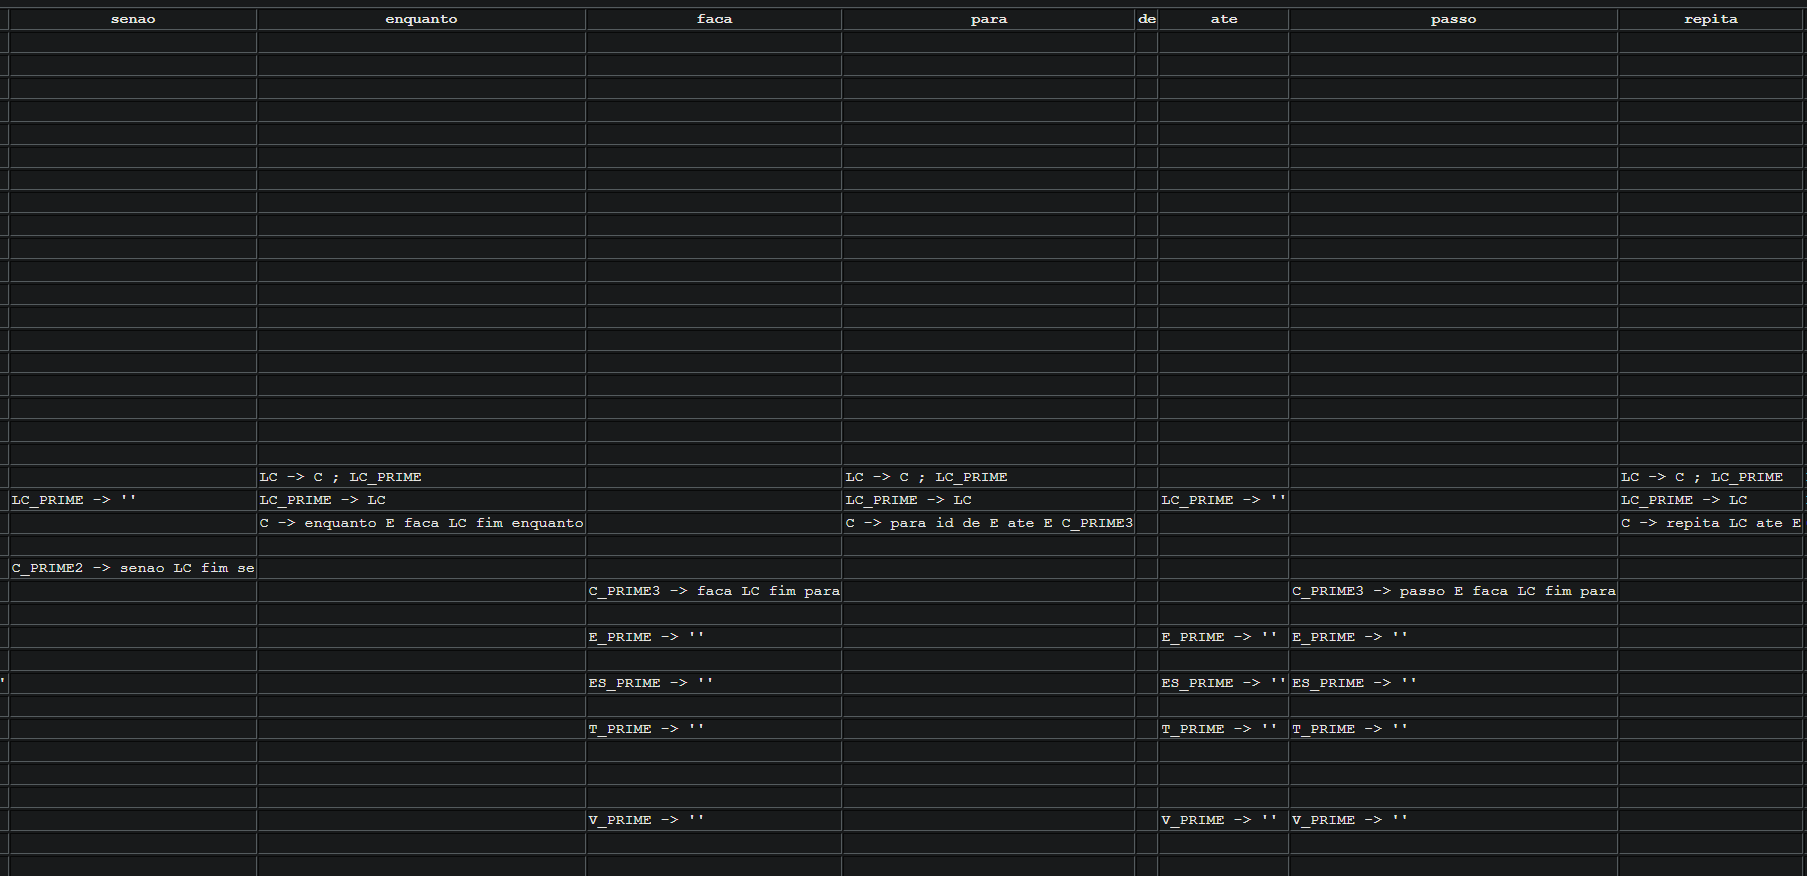
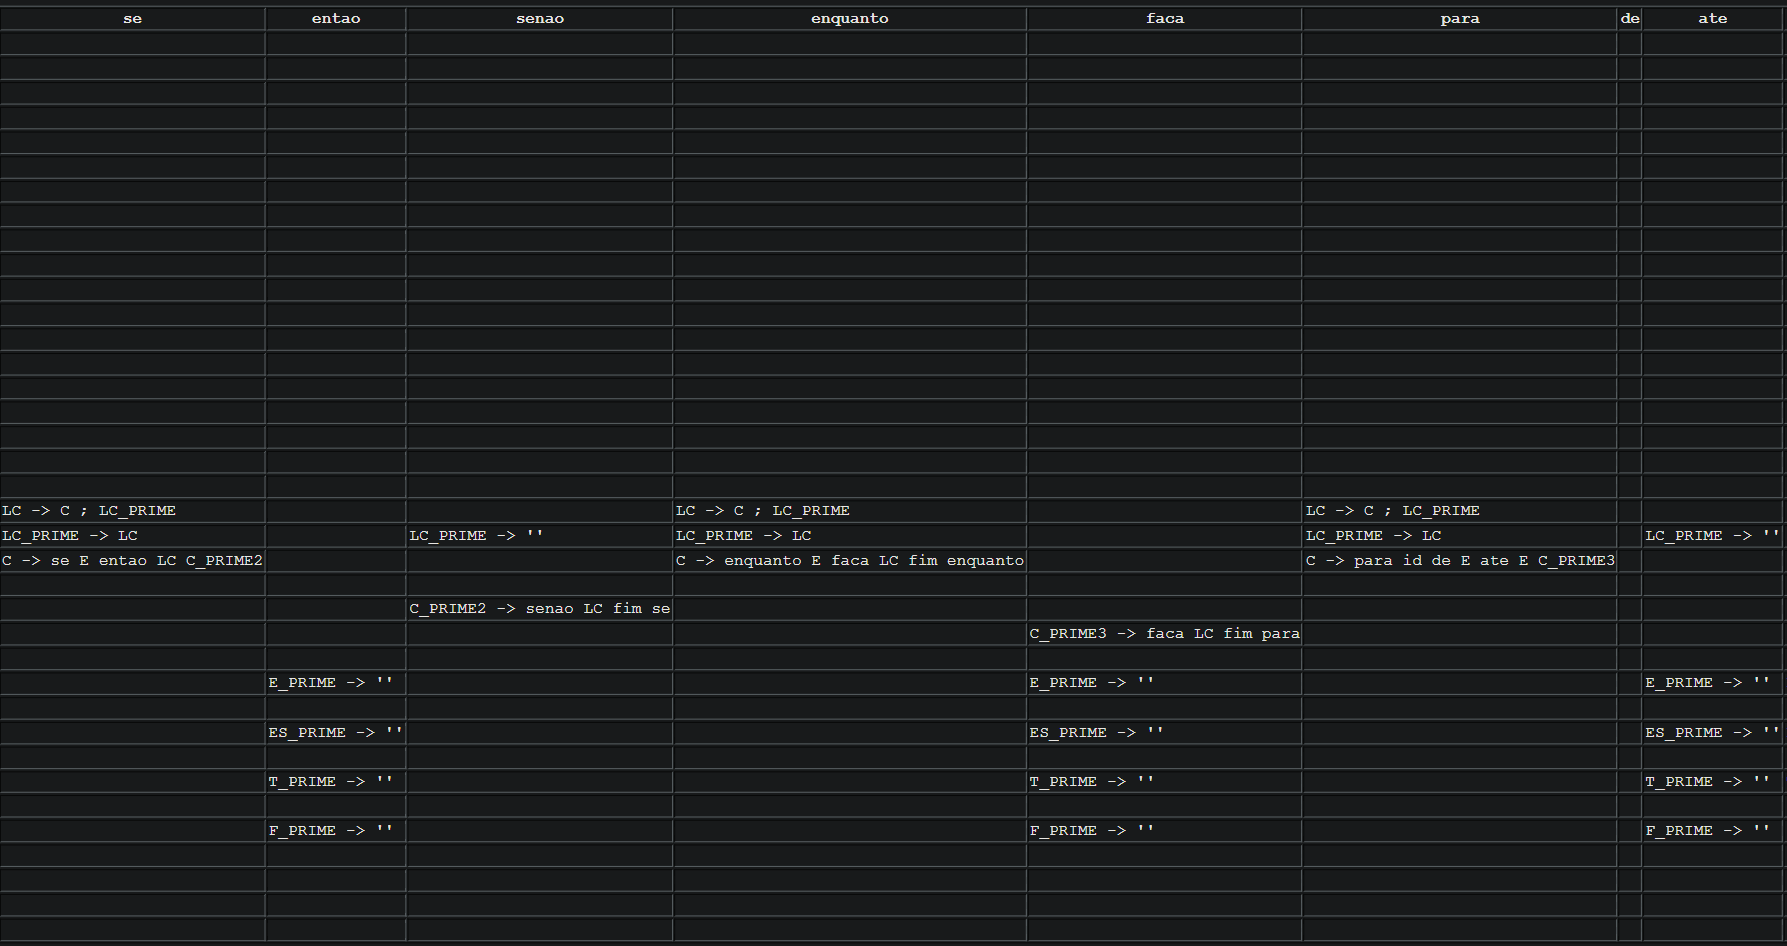
Algumas coisas funcionam agora, arrumar produções de E e ES

Changed region(s): [[0.0, 0.0, 1.0, 1.0]]

diff --git a/T1/PORTUGOL_SINTATICO.c b/T1/PORTUGOL_SINTATICO.c
@@ -21,7 +21,7 @@ void eatToken(void *cadeia, int tokenAnalisado, int *tokenGlobal, bool *textBefo
 
     } else {
         // if (getLine(cadeia) == -1 || getColumn(cadeia) == -1) return;
-        printf("ERRO DE SINTAXE. Linha: %d Coluna %d -> 'SOCORO'", getLine(cadeia), getColumn(cadeia));
+        printf("ERRO DE SINTAXE. Linha: %d Coluna %d -> '%d'", getLine(cadeia), getColumn(cadeia), *tokenGlobal);
         freeList(cadeia);
         free(input);
         exit(-2);
@@ -62,7 +62,7 @@ void Prog(void *cadeia, int *tokenGlobal, bool *textBefore, char *input) {
 
             BC(cadeia, tokenGlobal, textBefore, input);
 
-            eatToken(cadeia, FIM, tokenGlobal, textBefore, input);
+            eatToken(cadeia, PONTO, tokenGlobal, textBefore, input);
 
             break;
 
@@ -692,6 +692,15 @@ void C(void *cadeia, int *tokenGlobal, bool *textBefore, char *input) {
 
 void C_Prime1(void *cadeia, int *tokenGlobal, bool *textBefore, char *input) {
     switch (*tokenGlobal) {
+        case ID:
+            V(cadeia, tokenGlobal, textBefore, input);
+
+            eatToken(cadeia, ATRIBUICAO, tokenGlobal, textBefore, input);
+
+            E(cadeia, tokenGlobal, textBefore, input);
+
+            break;
+
         case PONTO_VIRGULA:
             break;
 
@@ -701,6 +710,19 @@ void C_Prime1(void *cadeia, int *tokenGlobal, bool *textBefore, char *input) {
             EI(cadeia, tokenGlobal, textBefore, input);
 
             eatToken(cadeia, FECHA_PARENTESES, tokenGlobal, textBefore, input);
+
+            break;
+
+        case ABRE_COLCHETE:
+            eatToken(cadeia, ABRE_COLCHETE, tokenGlobal, textBefore, input);
+
+            EI(cadeia, tokenGlobal, textBefore, input);
+
+            eatToken(cadeia, FECHA_COLCHETE, tokenGlobal, textBefore, input);
+
+            eatToken(cadeia, ATRIBUICAO, tokenGlobal, textBefore, input);
+
+            E(cadeia, tokenGlobal, textBefore, input);
 
             break;
 
@@ -1127,9 +1149,27 @@ void F(void *cadeia, int *tokenGlobal, bool *textBefore, char *input) {
 
 void F_Prime(void *cadeia, int *tokenGlobal, bool *textBefore, char *input) {
     switch (*tokenGlobal) {
-        case ID:
-            V(cadeia, tokenGlobal, textBefore, input);
-
+        case PONTO_VIRGULA:
+        case FECHA_PARENTESES:
+        case FECHA_COLCHETE:
+        case VIRGULA:
+        case IGUAL:
+        case DIFERENTE:
+        case MAIOR:
+        case MAIOR_IGUAL:
+        case MENOR:
+        case MENOR_IGUAL:
+        case MAIS:
+        case MENOS:
+        case OU:
+        case VEZES:
+        case DIVISAO:
+        case DIV:
+        case AND:
+        case ENTAO:
+        case FACA:
+        case ATE:
+        case PASSO:
             break;
 
         case ABRE_PARENTESES:
@@ -1138,6 +1178,15 @@ void F_Prime(void *cadeia, int *tokenGlobal, bool *textBefore, char *input) {
             EI(cadeia, tokenGlobal, textBefore, input);
 
             eatToken(cadeia, FECHA_PARENTESES, tokenGlobal, textBefore, input);
+
+            break;
+
+        case ABRE_COLCHETE:
+            eatToken(cadeia, ABRE_COLCHETE, tokenGlobal, textBefore, input);
+
+            EI(cadeia, tokenGlobal, textBefore, input);
+
+            eatToken(cadeia, FECHA_COLCHETE, tokenGlobal, textBefore, input);
 
             break;
 
@@ -1172,27 +1221,8 @@ void V(void *cadeia, int *tokenGlobal, bool *textBefore, char *input) {
 
 void V_Prime(void *cadeia, int *tokenGlobal, bool *textBefore, char *input) {
     switch (*tokenGlobal) {
-        case PONTO_VIRGULA:
         case FECHA_PARENTESES:
-        case FECHA_COLCHETE:
-        case VIRGULA:
-        case IGUAL:
-        case DIFERENTE:
-        case MAIOR:
-        case MAIOR_IGUAL:
-        case MENOR:
-        case MENOR_IGUAL:
-        case MAIS:
-        case MENOS:
-        case OU:
-        case VEZES:
-        case DIVISAO:
-        case DIV:
-        case AND:
-        case ENTAO:
-        case FACA:
-        case ATE:
-        case PASSO:
+        case ATRIBUICAO:
             break;
 
         case ABRE_COLCHETE:
@@ -1313,13 +1343,13 @@ void switchTokens(char *text, int token) {
         case -1:
             break;
         case ID:
-            strcat(text, " identificador");
+            strcat(text, " id");
             break;
         case NUM_INT:
-            strcat(text, " numero inteiro");
+            strcat(text, " num_int");
             break;
         case NUM_REAL:
-            strcat(text, " numero real");
+            strcat(text, " numero_real");
             break;
         case PONTO_VIRGULA:
             strcat(text, " ;");
@@ -1481,7 +1511,7 @@ void switchTokens(char *text, int token) {
             strcat(text, " comentario de bloco");  // this token sholdnt appear in syntax analysis
             break;
         case EOF_TOKEN:
-            strcat(text, " fim de arquivo");
+            strcat(text, " $");
             break;
         default:
             strcat(text, " nao identificado");  // this token sholdnt appear in syntax analysis

diff --git a/T1/linked_list.c b/T1/linked_list.c
@@ -59,11 +59,12 @@ void printList(listHeader *list) {
     nodeList *aux = list->head;
     while (aux != NULL) {
         defineID(&aux->value);
-        printf("%d ", aux->value);
-        // char *callocAux = calloc(30, sizeof(char));
-        // printf("%s ", callocAux);
+        // printf("%d ", aux->value);
+        char *callocAux = calloc(30, sizeof(char));
+        switchTokens(callocAux, aux->value);
+        printf("%s ", callocAux);
         aux = aux->next;
-        // free(callocAux);
+        free(callocAux);
     }
     printf("\n");
 }
